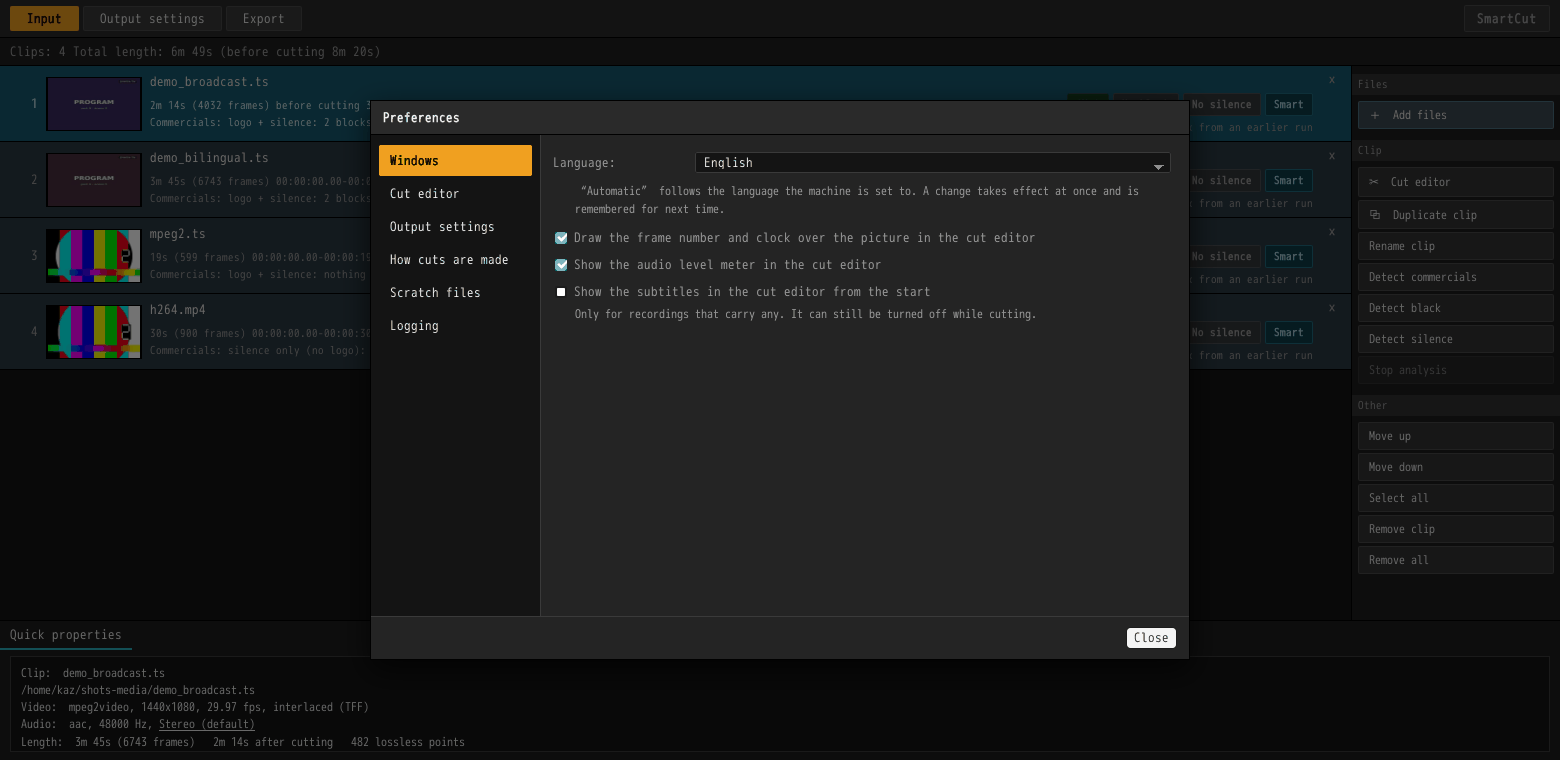
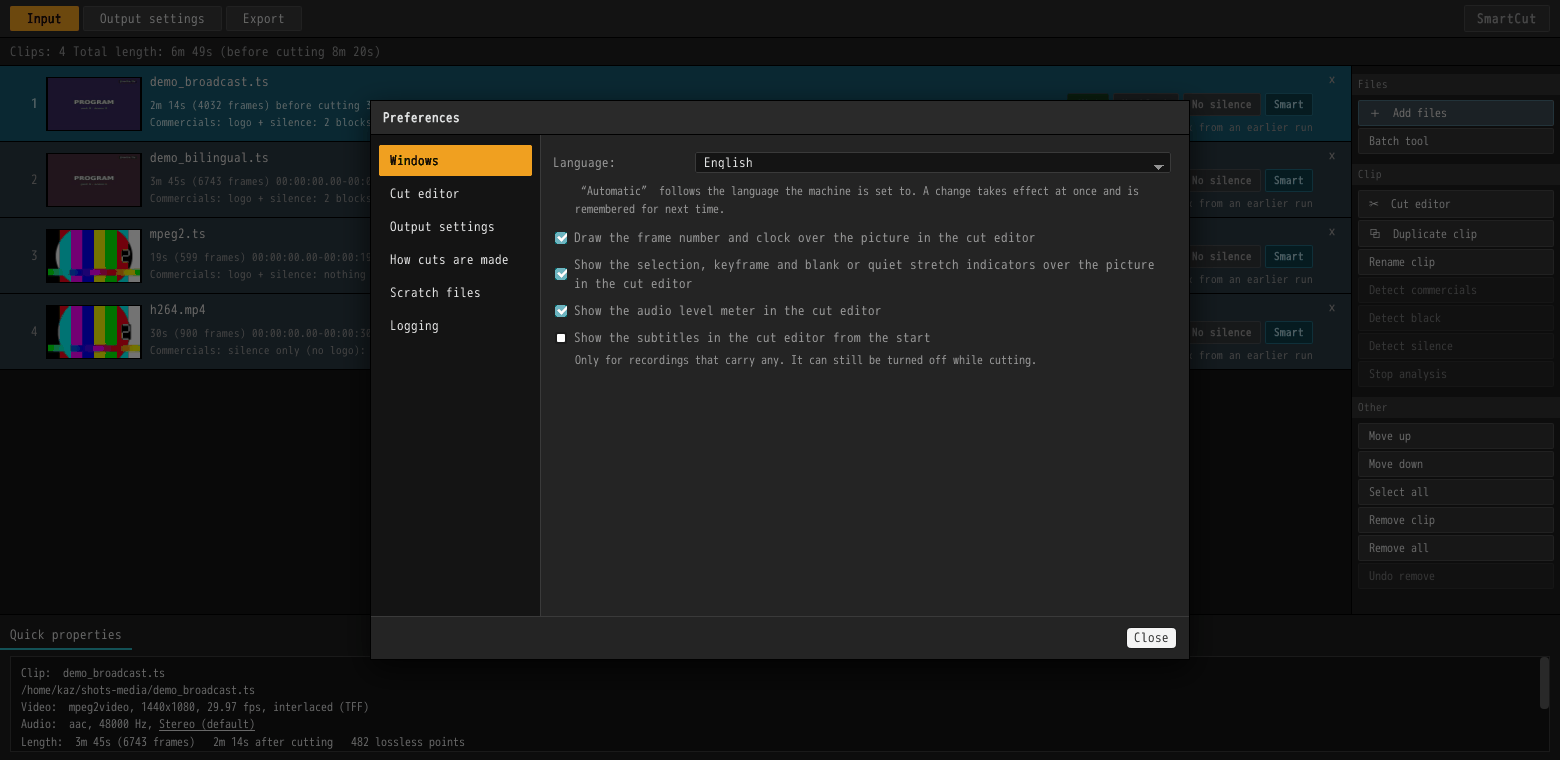
Version 0.8.15, and describe it in the guides with new pictures
- Media info, the thumbnail (and why not .mov), Ctrl+Up/Down, the
  double-click on the list, the panel's grip, the batch tool's button;
  --poster TIME.
- The input screen's pictures again for the new button, the ≡ menu's, and
  a new one of Media info.

diff --git a/docs/user-guide/gui.md b/docs/user-guide/gui.md
@@ -37,7 +37,8 @@ at a time: it needs a moment where you can say "this one is finished". That
 moment is the **OK** button.
 
 The batch tool has no tab, because it is about a queue of lists rather than
-about this one; it is opened from the `Batch tool…` item on the menu. Its
+about this one; it is opened from the **Batch tool** button under **Add files**
+on the input screen, or the `Batch tool…` item on the menu. Its
 own process, because a queue lined up at midnight has to go on being written
 after the window it was lined up in is closed.
 
@@ -201,8 +202,11 @@ quick properties at the foot of the screen either way.
 | `Ctrl+Z` / **Undo remove** | Put removed rows back where they were, with their cuts, marks and detections. **Remove all** comes back too. The last 20 removals are kept; opening a project or starting a new one forgets them. A row whose file has been added to the list again since stays out |
 | `↑` `↓` | Move the selection. Hold `Shift` to extend it |
 | **Drag a row** | Reorder. `Esc` cancels |
+| `Ctrl+↑` `Ctrl+↓` | Move the selected rows up / down, as **Move up** and **Move down** do |
 | **Click where there is no row** | Clear the selection |
+| **Double-click where there is no row** | Add files, as **Add files** does |
 | **Right-click** | The commands for that row, as a menu |
+| `Ctrl+I` / **Media info** on the right-click menu | What the file holds (see [What is in the file](#what-is-in-the-file)) |
 | **⧉ Duplicate clip** | Put the same recording in the list twice. Cuts and marks come with it |
 
 **What you add arrives selected**, and whatever was selected before is not. Drop
@@ -252,6 +256,8 @@ or take the row out and add the file again.
 
 **Quick properties**, along the bottom, describes whichever single clip is
 selected. With several selected, it says how many and shows the Audio line.
+Drag its top edge to make it taller or shorter; the height is kept for the
+next session, and a double-click on the edge puts it back.
 
 The **Audio:** line in quick properties gives the codec and sample rate and
 then, underlined, **what that row's sound will be written as** — say
@@ -294,6 +300,23 @@ greyed while the output settings copy the sound outright.
 
 A joined run takes **the master clip's answer**: a file declares its sound
 once.
+
+### What is in the file
+
+**Media info** on a row's right-click menu, or `Ctrl+I` with the row selected,
+lists what the recording's file holds.
+
+![Media info](../images/usage-mediainfo.png)
+
+| Section | What it gives |
+|---|---|
+| General | Container, file size, duration, bit rate, start time, the broadcast's service name and the like |
+| Video | Codec, profile, level, resolution, aspect ratios, frame rate, scan, colour and the like |
+| Audio | Codec, sample rate, channels, language and the like |
+| Subtitles and data | Codec, language, flags and the like |
+
+Codec and format names are given as FFmpeg writes them. **Copy as text** puts
+the lot on the clipboard, ready to paste into a bug report.
 
 ### Detecting commercials
 
@@ -941,6 +964,26 @@ program deciding what the recording is for.
 This choice is a fact about *this clip*, so it travels back with the edit and is
 saved in the project.
 
+### Choosing the thumbnail
+
+A file manager or a player shows a picture for each file, and left to itself
+picks one: often the first frame, which on a broadcast recording is black or
+the end of whatever came before. **Use this frame as the thumbnail** in the `≡`
+menu (or `P`) sets the picture at the playhead instead. **Go to the thumbnail
+frame** finds it again and **Clear the thumbnail** takes it off.
+
+- It is written into **`.mp4`, `.m4v` and `.mkv`** as the file's cover — the
+  `covr` image of an MP4, an attachment named `cover.jpg` in Matroska. A
+  `.webm`, a `.ts`, a `.m2ts` and a disc have no place for one, and FFmpeg
+  writes no `covr` into a `.mov`; those are written as before.
+- Any frame of the recording will do, including one that is cut out.
+- An interlaced recording gives its cover from one field, so there is no comb.
+- Joining clips into one file, the first clip that has a thumbnail gives it.
+- It is part of the edit and is saved in the project; the quick properties
+  show it as a `Thumbnail:` line, at its time in the output (`✂` if a cut
+  takes that frame).
+- `Ctrl+Z` does not take it back: **Clear the thumbnail** does.
+
 ### Finishing with a recording
 
 - **OK** — take the cuts and marks back to the list and close.
@@ -1576,6 +1619,8 @@ can quote it straight into a bug report.
 | `Delete` / `Backspace` | Remove from the list |
 | `Ctrl+Z` | Put back what was removed from the list |
 | `↑` `↓` (`Shift` to extend) | Move the selection |
+| `Ctrl+↑` `Ctrl+↓` | Move the selected rows up / down (in the batch tool, the selected jobs) |
+| `Ctrl+I` | Media info for the selected clip |
 
 ### Cut editor
 
@@ -1595,6 +1640,7 @@ can quote it straight into a bug report.
 | `J` / `Ctrl+J` | Type a frame number or a time to go to |
 | `I` or `[` / `O` or `]` | Start / end the selection here |
 | `K` | Mark this frame as a keyframe |
+| `P` | Use this frame as the output file's thumbnail |
 | `Insert` | Put a keyframe on this frame, or take away the one on it |
 | `Del` | Cut the selection — or, with the keyboard in the column of marks, remove the marks chosen there |
 | `Ctrl+Del` | Cut the inside of the selection, keeping the two marked frames |

diff --git a/docs/technical/distribution.md b/docs/technical/distribution.md
@@ -99,7 +99,7 @@ make things *more* fragile across environments, so the exclusion stays. What is 
 can be checked by extracting:
 
 ```bash
-./SmartCut_0.8.14_amd64.AppImage --appimage-extract >/dev/null
+./SmartCut_0.8.15_amd64.AppImage --appimage-extract >/dev/null
 ldd squashfs-root/usr/bin/smartcut | grep -E 'asound|jack|pulse'
 # libasound.so.2 / libjack.so.0 -> /lib/x86_64-linux-gnu/...   (system)
 # libpulse.so.0                 -> squashfs-root/usr/bin/../lib/...  (bundled)
@@ -130,8 +130,8 @@ runtime, and `appdir-lint.sh` finds no fatal issues.
 
 ```bash
 JAMMY=/path/to/root gui/jammy/build.sh   # AppImage, tar.gz and deb (Ubuntu 22.04 root)
-# -> gui/src-tauri/target/release/bundle/linux/SmartCut-0.8.14-linux-x86_64.tar.gz
-# -> gui/src-tauri/target/release/bundle/linux/smartcut_0.8.14_amd64.deb
+# -> gui/src-tauri/target/release/bundle/linux/SmartCut-0.8.15-linux-x86_64.tar.gz
+# -> gui/src-tauri/target/release/bundle/linux/smartcut_0.8.15_amd64.deb
 ```
 
 One build of SmartCut, packed two ways. Both install **the GUI as `smartcut` and the
@@ -142,13 +142,13 @@ The cargo crate is named `gui`, so left alone Tauri installs it straight to
 `/usr/bin/gui` — not a name anyone should be occupying. `mainBinaryName` in
 `tauri.conf.json` pins it to `smartcut` (since 0.2.0; before that it was set for Windows
 only). The bundle *files* Tauri writes are named after `productName` instead —
-`SmartCut_0.8.14_amd64.deb` and the like — which is why they and the deb's package name
+`SmartCut_0.8.15_amd64.deb` and the like — which is why they and the deb's package name
 `smartcut` differ. `build-linux.sh` reads both out of `tauri.conf.json`.
 
 | Artifact | Size | FFmpeg | Requires |
 |---|---|---|---|
-| `SmartCut-0.8.14-linux-x86_64.tar.gz` | 191.1 MB | Bundled | glibc 2.35 or newer. No FUSE needed |
-| `smartcut_0.8.14_amd64.deb` | 26.8 MB | Bundled (`/usr/lib/smartcut`) | Ubuntu 22.04 or later, Debian 13 or later |
+| `SmartCut-0.8.15-linux-x86_64.tar.gz` | 191.2 MB | Bundled | glibc 2.35 or newer. No FUSE needed |
+| `smartcut_0.8.15_amd64.deb` | 26.8 MB | Bundled (`/usr/lib/smartcut`) | Ubuntu 22.04 or later, Debian 13 or later |
 
 **The tar.gz contains the same AppDir as the AppImage, extracted.** The 633 libraries
 linuxdeploy gathered by following `ldd` sit in `app/` as they are, `./smartcut` is a
@@ -219,7 +219,7 @@ binary comes from Tauri's deb, and the tar.gz's from the AppDir.
 
 ### What was verified
 
-- On a bare Ubuntu 22.04 (ubuntu-base 22.04.5), `apt install ./smartcut_0.8.14_amd64.deb`
+- On a bare Ubuntu 22.04 (ubuntu-base 22.04.5), `apt install ./smartcut_0.8.15_amd64.deb`
   installs it: every dependency resolves, neither binary has a library it cannot find,
   and `smartcut-cli` loads `/usr/lib/smartcut/libavcodec.so.61`.
 - A 30-second cut of a broadcast recording made there matches the tar.gz's
@@ -234,7 +234,7 @@ Cross-built from the Linux development VM to `x86_64-pc-windows-msvc`.
 
 ```bash
 ./gui/build-windows.sh
-# -> gui/src-tauri/target/x86_64-pc-windows-msvc/release/bundle/nsis/SmartCut_0.8.14_x64-setup.exe
+# -> gui/src-tauri/target/x86_64-pc-windows-msvc/release/bundle/nsis/SmartCut_0.8.15_x64-setup.exe
 # -> gui/src-tauri/target/x86_64-pc-windows-msvc/release/bundle/portable/smartcut-portable-x64.zip
 ```
 

diff --git a/docs/user-guide/cli.ja.md b/docs/user-guide/cli.ja.md
@@ -117,6 +117,7 @@ smartcut a.ts --join b.ts --transition dissolve --transition-seconds 2 \
 | `--audio-bitrate レート` | 再エンコードするときのビットレート。`192k` でも `192000` でも書けます。省くと録画に合わせます。エンコーダが受け付けない値は、そのコーデックが通常使う値まで引き上げたうえで、その旨を表示します |
 | `--aac auto\|mpeg2\|mpeg4` | 書き出す AAC をどちらの規格として記録するか。既定の `auto` は録画に合わせます（放送なら MPEG-2 AAC） |
 | `--audio-es` | 音声を素のファイルとしても書き出します。出力と同じ名前で、AAC のときだけです |
+| `--poster 時刻` | 録画のその時刻のフレームを、出力ファイルのカバー画像（サムネイル）として埋め込みます。`.mp4` `.m4v` では `covr`、`.mkv` では `cover.jpg` という添付ファイルになります。ほかのコンテナでは無視し、その旨を表示します（`.mov` には FFmpeg が `covr` を書きません）。録画より後ろの時刻なら、最後のフレームを使ってその旨を表示します。インターレースの録画は片方のフィールドから作ります。`--sound-only` とは併用できません |
 | `--sound-only` | 映像を書かず、音声だけのファイルを出力します。カットも結合も継ぎ目のフェードもそのまま入ります。映像は読みも書きもしないので短時間で終わります。拡張子で形式が決まります（`.aac` `.ac3` `.eac3` `.mp2` `.mp3` `.dts` `.m4a` `.mka` `.wav`）。`.wav` は、`--audio-codec` でほかのコーデックを指定しないかぎりリニア PCM で書きます。拡張子の形式に入らない音声のときは、書き始める前にエラーで止まります。4K 放送の LATM 形式の AAC を `.aac` や `.m4a` に書くときは、通常の AAC に再エンコードし、その旨を表示します。元の音声フレームのまま残すなら `.mka` にします。音声トラックは 1 本だけで、`--master` で指定した録画のトラックを基準にします。`--bdav`・`--video-share`・`--audio-es` のほか、映像のある出力にしか効かない `--tables`・`--data-broadcast`・`--no-data-broadcast`・`--subtitles`・`--drop-subpicture`・`--vc1-quant`・`--clean-joins`・`--no-open-gop`・`--transition-image` とも併用できません。音声の無い録画を結合したときは、その録画の分を飛ばし、その旨を表示します |
 | `--audio-fade 秒数` | 継ぎ目の手前で音を下げ、継ぎ目の先で戻します。0〜10 秒、既定は 0（フェードなし）|
 | `--join-fade-out 秒数` | クリップの終わりで音を消すまでの秒数。`--join` でつなぐときの継ぎ目に掛かります。0〜10 秒、既定は 0 |

diff --git a/docs/user-guide/cli.md b/docs/user-guide/cli.md
@@ -120,6 +120,7 @@ copy, so **the whole track is re-encoded**.
 | `--audio-bitrate RATE` | Bits per second when re-encoding, as `192k` or `192000`. Left out, it follows the recording. A figure the encoder will not accept is raised to what that codec is ordinarily carried at, with a note saying so |
 | `--aac auto\|mpeg2\|mpeg4` | Which flavour of AAC the frames SmartCut writes announce themselves as. `auto`, the default, follows the recording — MPEG-2 AAC for a broadcast |
 | `--audio-es` | Also write the sound out as a bare stream beside the output. AAC only |
+| `--poster TIME` | Carry the picture at `TIME` into the recording as the file's cover (thumbnail): `covr` in `.mp4` and `.m4v`, an attachment named `cover.jpg` in `.mkv`. Other containers have no place for one (FFmpeg writes no `covr` into a `.mov`), and the run says it is ignored. A time past the end takes the last picture, with a note. An interlaced recording's cover is taken from one field. Not with `--sound-only` |
 | `--sound-only` | Write the sound and no pictures: the ranges, the joins and the fades exactly as they would be inside the video, and nothing read or written for the frames. `-o` names the file and its extension picks the container — `.aac`, `.ac3`, `.eac3`, `.mp2`, `.mp3`, `.dts`, `.m4a`, `.mka`, or `.wav`, which is written as linear PCM unless `--audio-codec` names another codec. A sound the container has no room for stops the run before anything is written. A 4K broadcast's LATM-framed AAC asked for as `.aac` or `.m4a` is re-encoded as plain AAC, and the run says so; `.mka` keeps its own frames. One sound track, taken from the recording `--master` names, and not with `--bdav`, `--video-share` or `--audio-es`, nor with what only a file with pictures has: `--tables`, `--data-broadcast`, `--no-data-broadcast`, `--subtitles`, `--drop-subpicture`, `--vc1-quant`, `--clean-joins`, `--no-open-gop` or `--transition-image`. A recording joined on with no sound is left out of the file, and the run says so |
 | `--audio-fade SECONDS` | Take the level down into each seam and bring it back out over that many seconds. 0 to 10; 0, no fade, is the default |
 | `--join-fade-out SECONDS` | How long the sound takes to leave at the end of each clip, where `--join` writes several into one file. 0 to 10; 0 is the default |

diff --git a/README.ja.md b/README.ja.md
@@ -137,11 +137,11 @@ CM 自動検出で決めた 5 区間・22 分の書き出しでは、**40589 フ
 
 | プラットフォーム | ファイル | 備考 |
 |---|---|---|
-| **Linux** | `SmartCut_0.8.14_amd64.AppImage` | 実行権限を付けて起動します |
-| **Linux** | `SmartCut-0.8.14-linux-x86_64.tar.gz` | 展開して `./smartcut` を実行します。FUSE を使いたくない場合はこちらです |
-| **Linux (Debian/Ubuntu)** | `smartcut_0.8.14_amd64.deb` | `sudo apt install ./smartcut_0.8.14_amd64.deb`。GTK や WebKitGTK はシステムのものを使うので 26.8 MB で済みます |
-| **Windows** | `SmartCut_0.8.14_x64-setup.exe` | インストーラ。コマンドライン版の `smartcut-cli.exe` も同じフォルダーに入ります |
-| **Windows** | `smartcut-portable-x64-0.8.14.zip` | 展開して `smartcut.exe` を実行します。コマンドライン版は `smartcut-cli.exe` です |
+| **Linux** | `SmartCut_0.8.15_amd64.AppImage` | 実行権限を付けて起動します |
+| **Linux** | `SmartCut-0.8.15-linux-x86_64.tar.gz` | 展開して `./smartcut` を実行します。FUSE を使いたくない場合はこちらです |
+| **Linux (Debian/Ubuntu)** | `smartcut_0.8.15_amd64.deb` | `sudo apt install ./smartcut_0.8.15_amd64.deb`。GTK や WebKitGTK はシステムのものを使うので 26.8 MB で済みます |
+| **Windows** | `SmartCut_0.8.15_x64-setup.exe` | インストーラ。コマンドライン版の `smartcut-cli.exe` も同じフォルダーに入ります |
+| **Windows** | `smartcut-portable-x64-0.8.15.zip` | 展開して `smartcut.exe` を実行します。コマンドライン版は `smartcut-cli.exe` です |
 
 **動作条件。** AppImage と tar.gz には glibc 2.35 以降が必要です（Ubuntu 22.04、
 Debian 12、Fedora 36 以降）。deb は Ubuntu 22.04 以降と Debian 13 以降で

diff --git a/README.md b/README.md
@@ -144,11 +144,11 @@ Every build bundles FFmpeg, so there is nothing else to install.
 
 | Platform | File | Notes |
 |---|---|---|
-| **Linux** | `SmartCut_0.8.14_amd64.AppImage` | Make it executable and run it |
-| **Linux** | `SmartCut-0.8.14-linux-x86_64.tar.gz` | Unpack and run `./smartcut`. Use this if you would rather not deal with FUSE |
-| **Linux (Debian/Ubuntu)** | `smartcut_0.8.14_amd64.deb` | `sudo apt install ./smartcut_0.8.14_amd64.deb`. 26.8 MB, because GTK and WebKitGTK come from your system |
-| **Windows** | `SmartCut_0.8.14_x64-setup.exe` | Installer. The command-line tool, `smartcut-cli.exe`, goes into the same folder |
-| **Windows** | `smartcut-portable-x64-0.8.14.zip` | Unzip and run `smartcut.exe`. The command-line tool is `smartcut-cli.exe` |
+| **Linux** | `SmartCut_0.8.15_amd64.AppImage` | Make it executable and run it |
+| **Linux** | `SmartCut-0.8.15-linux-x86_64.tar.gz` | Unpack and run `./smartcut`. Use this if you would rather not deal with FUSE |
+| **Linux (Debian/Ubuntu)** | `smartcut_0.8.15_amd64.deb` | `sudo apt install ./smartcut_0.8.15_amd64.deb`. 26.8 MB, because GTK and WebKitGTK come from your system |
+| **Windows** | `SmartCut_0.8.15_x64-setup.exe` | Installer. The command-line tool, `smartcut-cli.exe`, goes into the same folder |
+| **Windows** | `smartcut-portable-x64-0.8.15.zip` | Unzip and run `smartcut.exe`. The command-line tool is `smartcut-cli.exe` |
 
 **Requirements.** The AppImage and the tar.gz need glibc 2.35 or newer, which
 means Ubuntu 22.04, Debian 12, Fedora 36 or later. The `.deb` is for Ubuntu 22.04
